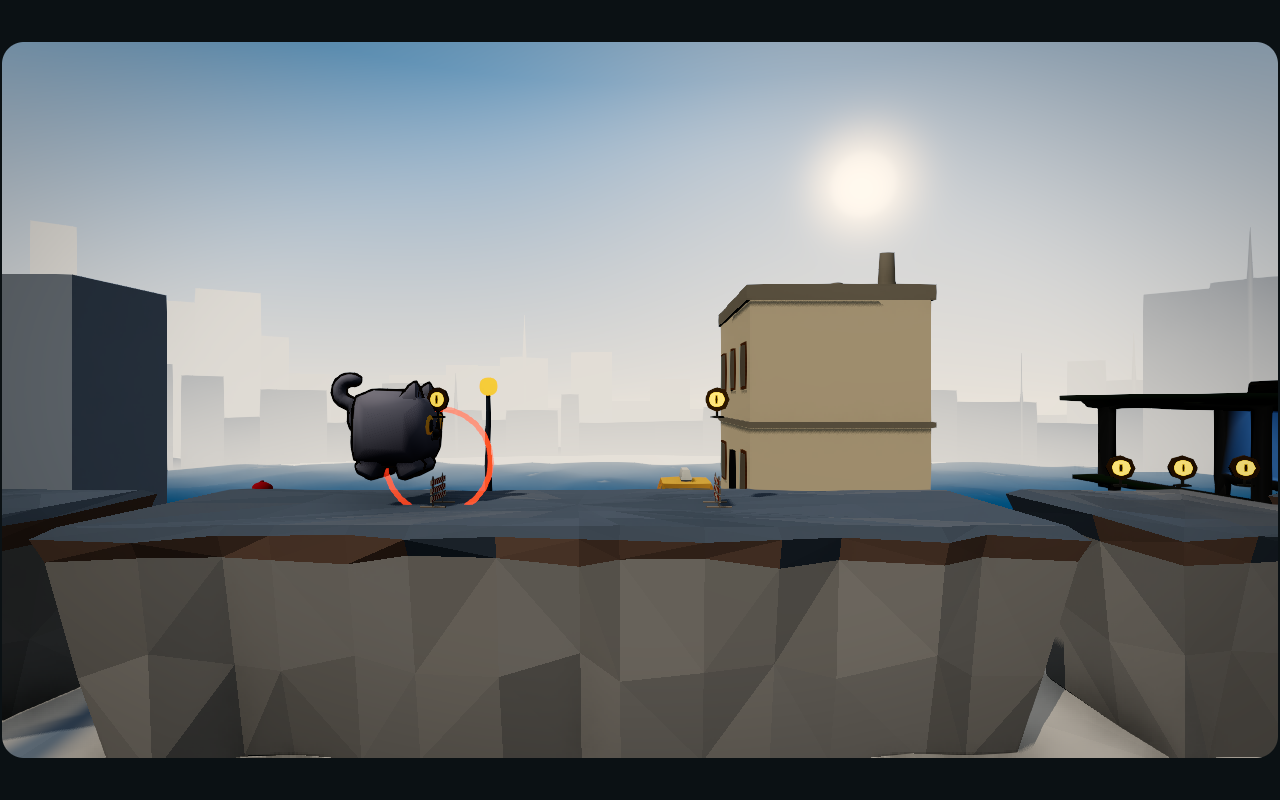
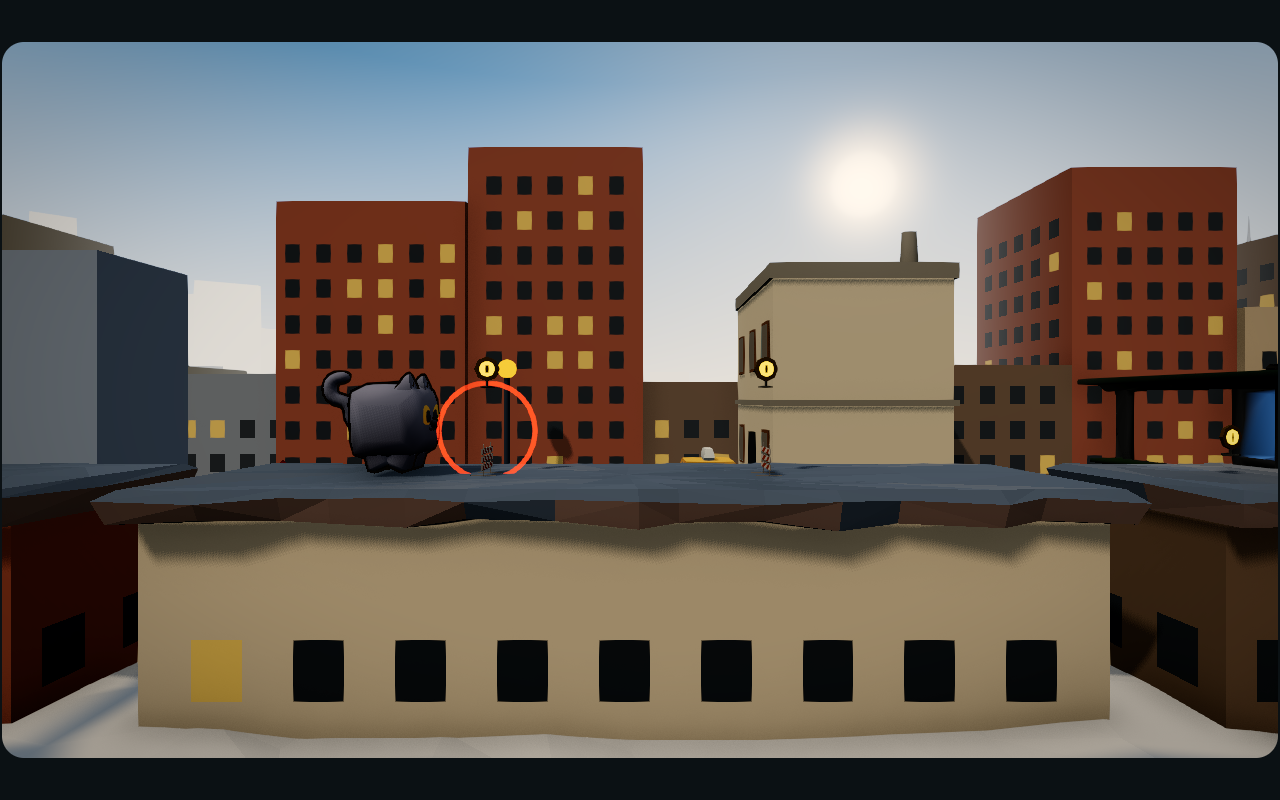
docs(evals): reshoot P46G on the P46 integration and judge again
After wins 12/12 again on 34cfac65 (A+B+D+G). Games differ from before/ since P46B adds segments. Phone perf A/B unusable under load; draw calls recorded instead.

Claude-Session: https://claude.ai/code/session_01KTw71Yk9iwVQXN2CmeGN7g

diff --git a/evals/play/p46g/README.md b/evals/play/p46g/README.md
@@ -16,7 +16,7 @@ node scripts/play-look-shots.mjs diff <dirA> <dirB>
 Rychlá verze přes `POST /api/play/games` (server bez režiséra), plátno 1280×800 bez textu stránky, SwiftShader. Ukázka robota se odtiká ručními hodinami sondy (`__playShell.byHand`) do tiku 150, pak hodiny stojí a snímek čeká, až se dotáhnou modely.
 
 - `before/` – build `17750622` (P46 + P46D, před P46G), 13. 10. 2026.
-- `after/` – build `005ac461` (P46G + znovu sloučený P46D), 14. 10. 2026, stejné volby (tik 150, SwiftShader, 1280×800). Hry jsou tytéž: všech 12 `versionId` v `after/manifest.json` se shoduje s `before/`.
+- `after/` – build `34cfac65` (integrační větev P46: A + B + D + G, k tomu břehy skákaček, domy a ulice města), 14. 10. 2026, stejné volby (tik 150, SwiftShader, 1280×800). Hry **nejsou** tytéž jako v `before/` (0 z 12 `versionId` shodných): P46B přidal novým hrám úseky a bosse, takže se změnil i spec. Snímek tedy srovnává celý P46 proti stavu před ním, ne jen vzhled. Předchozí běh nad `005ac461` (jen P46G + P46D, stejné hry) také vyhrál 12 z 12.
 - **`sheet-all.png`** – pro majitele: všech 12 dvojic vedle sebe s popisky „before“ / „after“ a větou (2560×2952 px).
 - **Cesta bez schodů** (prohlédnuto ručně, T9): ve všech 8 snímcích závodu a běžce je okraj cesty i zábradlí hladké, bez schodu. Před P46G mělo schody zábradlí v `forest-race`, `jungle-race` a `city-race`. Zbývá jedna vada, kterou P46G nezavedl: v `city-race` stojí domy vpravo přes zábradlí (stejně jako na snímku před).
 
@@ -29,7 +29,8 @@ node scripts/play-p46g-blind.mjs sheet
 
 Každá dvojice (před a po vedle sebe, bez popisků, strana losovaná ze seedu) jde jako `sheet.png` sama v prázdném adresáři soudci Opus 5.5 (`claude -p`, jen nástroj Read). Otázka: která strana vypadá víc jako uvěřitelné, pohlcující a čitelné herní místo pro tu větu.
 
-- **Výsledek: „po“ vyhrálo 12 z 12** (seed `46009`, hranice 10 z 12), jeden běh, žádné přeptání. Důvody soudce: hustší les a džungle, duny a skály v poušti, panorama města, čitelná cesta (`judge.json`).
+- **Výsledek: „po“ vyhrálo 12 z 12** (seed `46009`, hranice 10 z 12), jeden běh, žádné přeptání. Důvody soudce: hustší les a džungle, duny a skály v poušti, panorama města, čitelná cesta (`judge.json`). Přesnímáno 14. 10. nad `34cfac65`: znovu 12 z 12, navíc „střecha domu“ u kočky ve městě a jasná cesta u psa.
+- **Výkon telefonu:** A/B na PC 14. 10. nepoužitelné (stroj přetížený, nová strana 0,1–0,3 FPS = zamrzlý prohlížeč). Vodítkem jsou kreslicí volání z `after/manifest.json` (skákačky +2–14 % proti `005ac461`); skutečnou plynulost ověří majitel na telefonu.
 
 ## Výkon „po“
 
